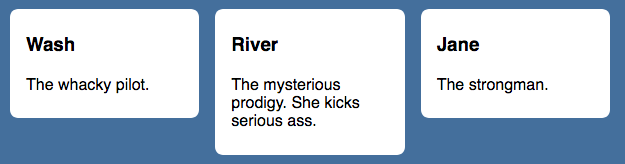
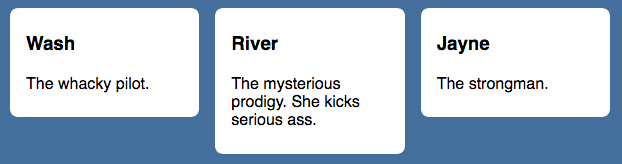
fix spelling of Jayne Cobb

diff --git a/content/posts/2017/12/oocss-and-grid.md b/content/posts/2017/12/oocss-and-grid.md
@@ -56,7 +56,7 @@ Take the example above, for instance. If you were to replace the `row` and `col-
   </div>
   <div class="grid__item">
     <div class="card">
-      <h3 class="card__title">Jane</h3>
+      <h3 class="card__title">Jayne</h3>
       <p class="card__body">The strongman.</p>
     </div>
   </div>
@@ -92,7 +92,7 @@ Watch what happens in our example, when we combine the grid item “structure”
     <p class="card__body">The mysterious prodigy. She kicks serious ass.</p>
   </div>
   <div class="grid__item card">
-    <h3 class="card__title">Jane</h3>
+    <h3 class="card__title">Jayne</h3>
     <p class="card__body">The strongman.</p>
   </div>
 </div>
